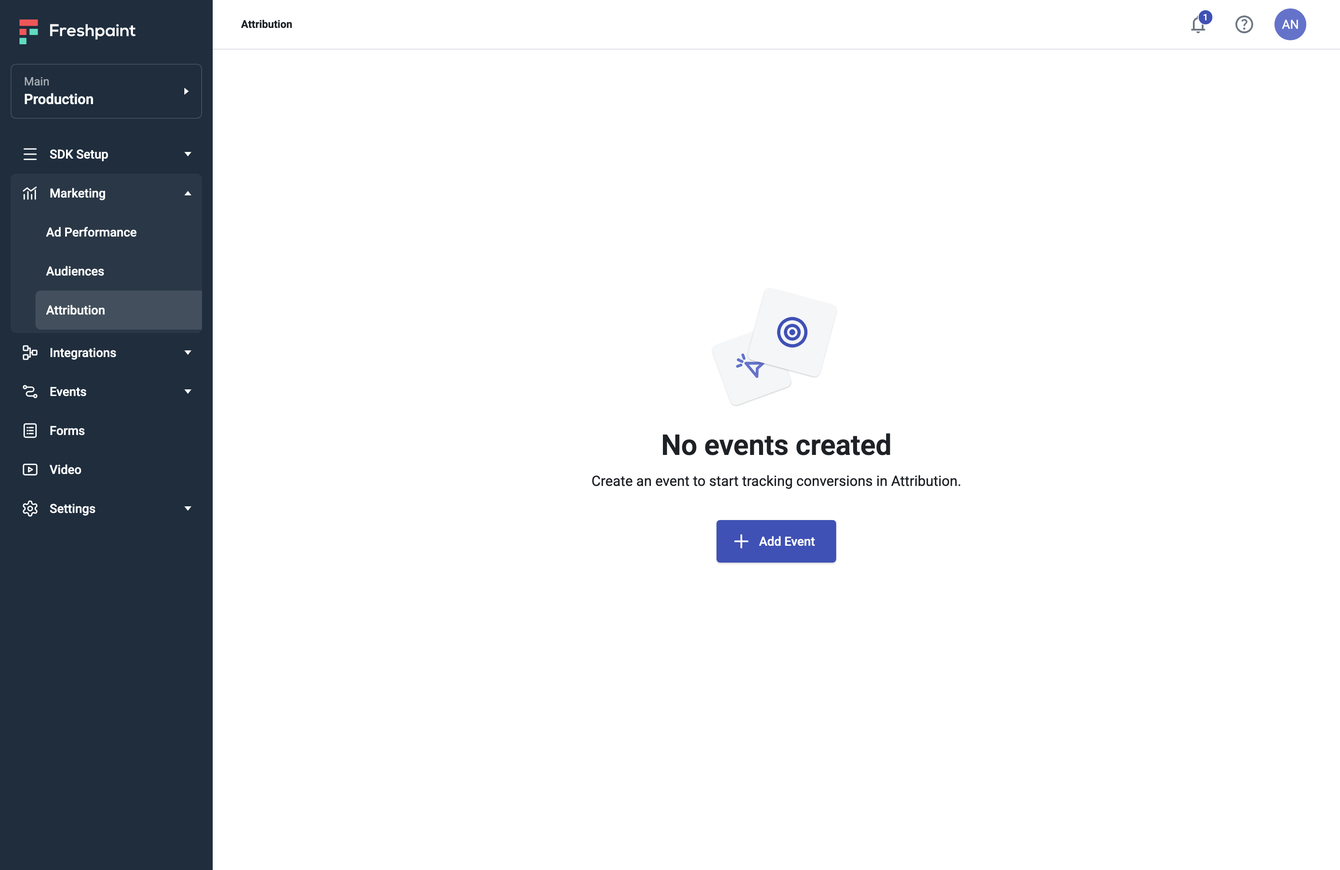
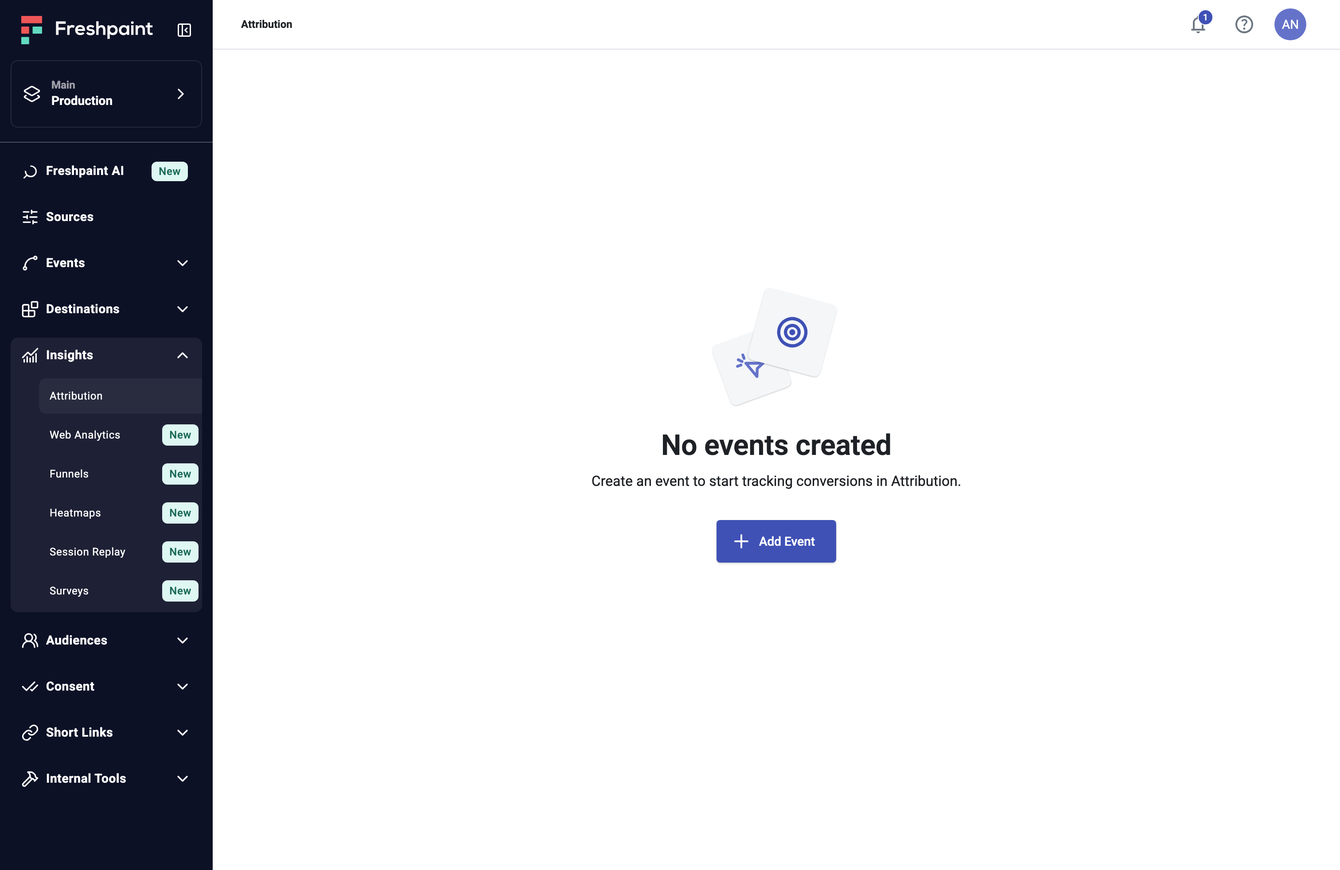
Problem goes straight to Discovery; 3.2 trimmed; board friction points as handwritten notes; No events uses the walkthrough sidebar

Changed region(s): [[0.0, 0.0, 0.1865, 1.0]]

diff --git a/scripts/empty-states/no-events.html b/scripts/empty-states/no-events.html
@@ -1,7 +1,7 @@
 <!doctype html>
 <!--
   "No events" empty state, recreated (Kyle had no screen grab of it). Modeled on the product's
-  "No integrations connected" screen from the same era: same shell, same layout, an events illustration,
+  "No integrations connected" screen (same layout), in the walkthrough's shell (its sidebar, exactly, per Kyle), an events illustration,
   "No events created", and "+ Add Event". Mock content only.
   Render to public/assets/hunch/no-events.png with: sh scripts/empty-states/render.sh
 -->
@@ -14,22 +14,33 @@
   html, body { width: 1512px; height: 982px; overflow: hidden; font-family: Roboto, sans-serif; color: #1e2125; background: #fff; }
   .app { display: flex; height: 982px; }
 
-  /* sidebar */
-  .side { width: 240px; flex: none; background: #1f2d3d; color: #fff; padding: 20px 12px; }
-  .logo { display: block; height: 28px; width: auto; margin: 2px 0 22px 10px; }
-  .ws { border: 1px solid rgba(255,255,255,0.15); border-radius: 6px; padding: 10px 14px; display: flex; align-items: center; margin-bottom: 18px; }
-  .ws span { flex: 1; display: flex; flex-direction: column; }
-  .ws small { font-size: 13px; color: rgba(255,255,255,0.6); line-height: 18px; }
-  .ws b { font-size: 16px; font-weight: 600; line-height: 22px; }
-  .row { height: 44px; display: flex; align-items: center; gap: 12px; padding: 0 12px; font-size: 14px; font-weight: 500; }
-  .row svg { width: 20px; height: 20px; flex: none; }
-  .row .label { flex: 1; }
-  .caret { width: 0; height: 0; border-left: 4px solid transparent; border-right: 4px solid transparent; border-top: 5px solid #fff; }
-  .caret.up { border-top: 0; border-bottom: 5px solid #fff; }
-  .caret.right { border-top: 4px solid transparent; border-bottom: 4px solid transparent; border-left: 5px solid #fff; border-right: 0; }
-  .group { background: rgba(255,255,255,0.05); border-radius: 6px; padding-bottom: 4px; }
-  .sub { height: 44px; display: flex; align-items: center; padding-left: 40px; font-size: 14px; font-weight: 500; margin-left: 0; }
-  .sub.on { background: rgba(255,255,255,0.12); border-radius: 6px 0 0 6px; margin-left: 28px; padding-left: 12px; }
+  /* sidebar: an exact port of the walkthrough's Sidebar (src/visuals/onboarding-screens.tsx), same Figma assets */
+  .side { width: 240px; flex: none; background: #0d1126; color: #fff; display: flex; flex-direction: column; }
+  .brand { height: 68px; display: flex; align-items: center; justify-content: space-between; padding: 0 16px 0 24px; }
+  .brand .logo { width: 148.7px; height: 32px; display: block; }
+  .icon-box { width: 32px; height: 32px; display: grid; place-items: center; }
+  .env-wrap { padding: 0 12px 16px; }
+  .env { display: flex; align-items: center; gap: 12px; border: 1px solid rgba(255,255,255,0.1); border-radius: 8px; padding: 9px 13px; }
+  .env .txt { flex: 1; height: 56px; display: flex; flex-direction: column; justify-content: center; }
+  .env small { font-size: 12px; font-weight: 700; line-height: 16px; color: rgba(255,255,255,0.6); }
+  .env b { font-size: 14px; font-weight: 700; line-height: 20px; }
+  .rot { transform: rotate(-90deg); }
+  .divider { height: 1px; background: #23303e; border-bottom: 1px solid rgba(255,255,255,0.15); }
+  .nav { padding: 6px 6px 4px; }
+  .cell { padding: 6px; }
+  .navrow { height: 40px; width: 216px; display: flex; align-items: center; border-radius: 8px; padding: 0 12px; font-size: 14px; font-weight: 700; line-height: 20px; letter-spacing: 0.35px; }
+  .navrow .ic { padding-right: 8px; display: flex; }
+  .navrow .label { flex: 1; }
+  .badge-new { border-radius: 6px; background: #def7f2; color: #186756; padding: 4px 8px; font-size: 12px; font-weight: 500; line-height: 16px; letter-spacing: 0.35px; }
+  .grp-head { border-radius: 8px 8px 0 0; background: rgba(255,255,255,0.07); }
+  .grp-list { border-radius: 0 0 8px 8px; background: rgba(255,255,255,0.07); padding: 6px 0 0 16px; }
+  .subcell { height: 44px; padding: 0 0 4px 16px; }
+  .sub { height: 40px; width: 184px; display: flex; align-items: center; justify-content: space-between; border-radius: 8px 0 0 8px; padding: 0 4px 0 12px; font-size: 12px; line-height: 20px; letter-spacing: 0.35px; }
+  .sub.on { background: rgba(73,83,96,0.23); }
+  .ai { position: relative; width: 20px; height: 20px; overflow: hidden; display: block; }
+  .ai .a { position: absolute; top: 0; left: 5.56%; width: 88.88%; height: 100%; }
+  .ai .m { position: absolute; inset: 16.02% 35.97% 37.41% 17.46%; -webkit-mask: url(../../public/assets/showing-team/nav-ai-mask.svg) -0.621px -1.242px / 10.556px 10.556px no-repeat; mask: url(../../public/assets/showing-team/nav-ai-mask.svg) -0.621px -1.242px / 10.556px 10.556px no-repeat; }
+  .ai .m img { position: absolute; inset: 0; width: 100%; height: 100%; }
 
   /* main */
   .main { flex: 1; display: flex; flex-direction: column; }
@@ -56,29 +67,28 @@
 <body>
 <div class="app">
   <aside class="side">
-    <img class="logo" src="logo.svg" alt="Freshpaint">
-    <div class="ws"><span><small>Main</small><b>Production</b></span><i class="caret right"></i></div>
-
-    <div class="row"><svg viewBox="0 0 24 24" fill="none" stroke="#fff" stroke-width="1.8" stroke-linecap="round" stroke-linejoin="round"><path d="M4 5h16M4 12h16M4 19h16M7 5v0M7 19v0"/><rect x="3" y="3" width="18" height="18" rx="3" opacity="0"/></svg><span class="label">SDK Setup</span><i class="caret"></i></div>
-    <div class="group">
-      <div class="row"><svg viewBox="0 0 24 24" fill="none" stroke="#fff" stroke-width="1.8" stroke-linecap="round" stroke-linejoin="round"><path d="M4 20V14M9 20V10M14 20v-6M19 20V8M3 9l5-4 5 4 7-5"/></svg><span class="label">Marketing</span><i class="caret up"></i></div>
-      <div class="sub">Ad Performance</div>
-      <div class="sub">Audiences</div>
-      <div class="sub on">Attribution</div>
+    <div class="brand"><img class="logo" src="../../public/assets/showing-team/logo.svg" alt="Freshpaint"><span class="icon-box"><img src="../../public/assets/showing-team/nav-collapse.svg" width="18" height="18" alt=""></span></div>
+    <div class="env-wrap"><div class="env"><img src="../../public/assets/showing-team/nav-env.svg" width="20" height="20" alt=""><span class="txt"><small>Main</small><b>Production</b></span><img class="rot" src="../../public/assets/showing-team/chevron-env.svg" width="20" height="20" alt=""></div></div>
+    <div class="divider"></div>
+    <div class="nav">
+      <div class="cell"><div class="navrow"><span class="ic"><span class="ai"><img class="a" src="../../public/assets/showing-team/nav-ai.svg" alt=""><span class="m"><img src="../../public/assets/showing-team/nav-ai-spark.svg" alt=""></span></span></span><span class="label">Freshpaint AI</span><span style="padding-right:4px"><span class="badge-new">New</span></span></div></div>
+      <div class="cell"><div class="navrow"><span class="ic"><img src="../../public/assets/showing-team/nav-sources.svg" width="20" height="20" alt=""></span><span class="label">Sources</span></div></div>
+      <div class="cell"><div class="navrow"><span class="ic"><img src="../../public/assets/showing-team/nav-events.svg" width="20" height="20" alt=""></span><span class="label">Events</span><img src="../../public/assets/showing-team/chevron-down.svg" width="20" height="20" alt=""></div></div>
+      <div class="cell"><div class="navrow"><span class="ic"><img src="../../public/assets/showing-team/nav-destinations.svg" width="20" height="20" alt=""></span><span class="label">Destinations</span><img src="../../public/assets/showing-team/chevron-down.svg" width="20" height="20" alt=""></div></div>
+      <div class="cell"><div class="grp-head"><div class="navrow"><span class="ic"><img src="../../public/assets/showing-team/nav-insights.svg" width="20" height="20" alt=""></span><span class="label">Insights</span><img src="../../public/assets/showing-team/chevron-up.svg" width="20" height="20" alt=""></div></div><div class="grp-list"><div class="subcell"><div class="sub on">Attribution</div></div><div class="subcell"><div class="sub">Web Analytics<span class="badge-new">New</span></div></div><div class="subcell"><div class="sub">Funnels<span class="badge-new">New</span></div></div><div class="subcell"><div class="sub">Heatmaps<span class="badge-new">New</span></div></div><div class="subcell"><div class="sub">Session Replay<span class="badge-new">New</span></div></div><div class="subcell"><div class="sub">Surveys<span class="badge-new">New</span></div></div></div></div>
+      <div class="cell"><div class="navrow"><span class="ic"><img src="../../public/assets/showing-team/nav-audiences.svg" width="20" height="20" alt=""></span><span class="label">Audiences</span><img src="../../public/assets/showing-team/chevron-down.svg" width="20" height="20" alt=""></div></div>
+      <div class="cell"><div class="navrow"><span class="ic"><img src="../../public/assets/showing-team/nav-consent.svg" width="20" height="20" alt=""></span><span class="label">Consent</span><img src="../../public/assets/showing-team/chevron-down.svg" width="20" height="20" alt=""></div></div>
+      <div class="cell"><div class="navrow"><span class="ic"><img src="../../public/assets/showing-team/nav-short-links.svg" width="20" height="20" alt=""></span><span class="label">Short Links</span><img src="../../public/assets/showing-team/chevron-down.svg" width="20" height="20" alt=""></div></div>
+      <div class="cell"><div class="navrow"><span class="ic"><img src="../../public/assets/showing-team/nav-internal-tools.svg" width="20" height="20" alt=""></span><span class="label">Internal Tools</span><img src="../../public/assets/showing-team/chevron-down.svg" width="20" height="20" alt=""></div></div>
     </div>
-    <div class="row"><svg viewBox="0 0 24 24" fill="none" stroke="#fff" stroke-width="1.8" stroke-linecap="round" stroke-linejoin="round"><rect x="3" y="3" width="6" height="6" rx="1"/><rect x="3" y="15" width="6" height="6" rx="1"/><rect x="15" y="9" width="6" height="6" rx="1"/><path d="M9 6h3v12H9M12 12h3"/></svg><span class="label">Integrations</span><i class="caret"></i></div>
-    <div class="row"><svg viewBox="0 0 24 24" fill="none" stroke="#fff" stroke-width="1.8" stroke-linecap="round" stroke-linejoin="round"><circle cx="5" cy="6" r="2"/><circle cx="19" cy="18" r="2"/><path d="M7 6h7a3 3 0 010 6H10a3 3 0 000 6h7"/></svg><span class="label">Events</span><i class="caret"></i></div>
-    <div class="row"><svg viewBox="0 0 24 24" fill="none" stroke="#fff" stroke-width="1.8" stroke-linecap="round" stroke-linejoin="round"><rect x="4" y="3" width="16" height="18" rx="2"/><path d="M8 8h1M11 8h5M8 12h1M11 12h5M8 16h1M11 16h5"/></svg><span class="label">Forms</span></div>
-    <div class="row"><svg viewBox="0 0 24 24" fill="none" stroke="#fff" stroke-width="1.8" stroke-linecap="round" stroke-linejoin="round"><rect x="3" y="5" width="18" height="14" rx="2"/><path d="M10 9l5 3-5 3z"/></svg><span class="label">Video</span></div>
-    <div class="row"><svg viewBox="0 0 24 24" fill="none" stroke="#fff" stroke-width="1.8" stroke-linecap="round" stroke-linejoin="round"><circle cx="12" cy="12" r="3"/><path d="M12.22 2h-.44a2 2 0 00-2 2v.18a2 2 0 01-1 1.73l-.43.25a2 2 0 01-2 0l-.15-.08a2 2 0 00-2.73.73l-.22.38a2 2 0 00.73 2.73l.15.1a2 2 0 011 1.72v.51a2 2 0 01-1 1.74l-.15.09a2 2 0 00-.73 2.73l.22.38a2 2 0 002.73.73l.15-.08a2 2 0 012 0l.43.25a2 2 0 011 1.73V20a2 2 0 002 2h.44a2 2 0 002-2v-.18a2 2 0 011-1.73l.43-.25a2 2 0 012 0l.15.08a2 2 0 002.73-.73l.22-.39a2 2 0 00-.73-2.73l-.15-.08a2 2 0 01-1-1.74v-.5a2 2 0 011-1.74l.15-.09a2 2 0 00.73-2.73l-.22-.38a2 2 0 00-2.73-.73l-.15.08a2 2 0 01-2 0l-.43-.25a2 2 0 01-1-1.73V4a2 2 0 00-2-2z"/></svg><span class="label">Settings</span><i class="caret"></i></div>
   </aside>
 
   <main class="main">
     <div class="top">
       <span class="crumb">Attribution</span>
       <span class="tools">
-        <span class="tool"><img src="bell.svg" alt=""><span class="badge">1</span></span>
-        <span class="tool"><img src="help.svg" alt=""></span>
+        <span class="tool"><img src="../../public/assets/showing-team/bell.svg" alt=""><span class="badge">1</span></span>
+        <span class="tool"><img src="../../public/assets/showing-team/help.svg" alt=""></span>
         <span class="tool"><span class="avatar">AN</span></span>
       </span>
     </div>

diff --git a/src/visuals/MappingBoard.tsx b/src/visuals/MappingBoard.tsx
@@ -9,8 +9,8 @@ import { SHOTS, ShotView } from './EmptyStateMontage'
 /*
   Beat 6 visual ("Connecting the dots"): the method, not the result. A generic whiteboard (not FigJam's UI).
   The six empty-state screenshots from the montage drop on as anchor points, circles and labels intact;
-  step boxes fill the gaps between them; arrows draw in to connect everything; sticky notes pop up at a
-  few friction points. Real screenshots swapped into SHOTS appear here too. Tune the timing here (seconds).
+  step boxes fill the gaps between them; arrows draw in to connect everything; handwritten magenta notes
+  with arrows call out the friction points (Kyle's markup, as on the montage). Real screenshots swapped into SHOTS appear here too. Tune the timing here (seconds).
 */
 export const TIMING = {
   start: 0.4,
@@ -20,8 +20,8 @@ export const TIMING = {
   arrowsAfter: 0.3, // after the last step box
   arrowGap: 0.14,
   arrowDraw: 0.45,
-  stickiesAfter: 0.3, // after the last arrow
-  stickyGap: 0.3,
+  notesAfter: 0.3, // after the last arrow
+  noteGap: 0.45,
   settle: 0.8,
 }
 
@@ -41,19 +41,20 @@ const FLOW: Item[] = [
   { kind: 'step', label: 'AI settings', x: 28, y: 74 },
   { kind: 'shot', shot: 4, x: 10, y: 74 }, // AI on, no events
 ]
-// friction points: sticky notes near these items (index into FLOW), offset in percent
-const STICKIES = [
-  { at: 1, dx: 0, dy: -17, r: -6 },
-  { at: 6, dx: 0, dy: 15, r: 5 },
-  { at: 8, dx: 1, dy: 15, r: -4 },
+// friction points: a handwritten note above or below a step (index into FLOW), with an arrow to it.
+// Wording derived from the case study, to confirm with Kyle.
+const NOTES: { at: number; text: string; side: 'above' | 'below'; r: number }[] = [
+  { at: 1, text: 'Leaves Attribution to create events', side: 'above', r: -4 },
+  { at: 6, text: 'No way back after connecting', side: 'below', r: 3 },
+  { at: 8, text: 'Leaves Attribution to turn on AI', side: 'below', r: -3 },
 ]
 
 const shots = FLOW.filter((f) => f.kind === 'shot')
 const stepsOnly = FLOW.filter((f) => f.kind === 'step')
 const STEPS_AT = TIMING.start + shots.length * TIMING.shotGap + TIMING.stepsAfter
 const ARROWS_AT = STEPS_AT + stepsOnly.length * TIMING.stepGap + TIMING.arrowsAfter
-const STICKIES_AT = ARROWS_AT + (FLOW.length - 1) * TIMING.arrowGap + TIMING.arrowDraw + TIMING.stickiesAfter
-const TOTAL = STICKIES_AT + STICKIES.length * TIMING.stickyGap + TIMING.settle
+const NOTES_AT = ARROWS_AT + (FLOW.length - 1) * TIMING.arrowGap + TIMING.arrowDraw + TIMING.notesAfter
+const TOTAL = NOTES_AT + NOTES.length * TIMING.noteGap + TIMING.settle
 
 const halfW = (f: Item) => (f.kind === 'shot' ? SHOT_W : STEP_W) / 2
 const halfH = (f: Item) => (f.kind === 'shot' ? (SHOT_W * 10) / 16 : 5) / 2 / 0.625 // percent of board height
@@ -145,21 +146,31 @@ export function MappingBoard(props: VisualProps) {
           )
         })}
 
-        {/* friction points */}
-        {STICKIES.map((s, i) => {
-          const f = FLOW[s.at]
+        {/* friction points: Kyle's handwritten notes, each with an arrow to its step */}
+        {NOTES.map((n, i) => {
+          const f = FLOW[n.at]
+          const edge = f.y + (n.side === 'above' ? -halfH(f) - 1 : halfH(f) + 1) // percent of board height
           return (
-            <Placed key={`s${i}`} x={f.x + s.dx} y={f.y + s.dy} w={7.5} r={s.r} z={30}>
-              <motion.div
-                className="flex aspect-square flex-col justify-center gap-[0.7cqw] rounded-[0.3cqw] p-[0.9cqw] shadow-[0_6px_16px_rgba(20,21,28,0.18)]"
-                style={{ background: 'color-mix(in srgb, var(--color-annotation) 22%, var(--color-surface))' }}
-                {...pop(STICKIES_AT + i * TIMING.stickyGap, 0.6)}
-              >
-                {[90, 70, 80].map((w, k) => (
-                  <span key={k} className="block h-[0.45cqw] rounded-full" style={{ width: `${w}%`, background: 'color-mix(in srgb, var(--color-annotation) 55%, var(--color-surface))' }} />
-                ))}
+            <div
+              key={`n${i}`}
+              className="absolute z-30 flex w-[17cqw] flex-col items-center"
+              style={{ left: `${f.x}%`, top: `${edge}%`, transform: `translate(-50%, ${n.side === 'above' ? '-100%' : '0'})` }}
+            >
+              <motion.div className={`flex items-center ${n.side === 'below' ? 'flex-col-reverse' : 'flex-col'}`} {...pop(NOTES_AT + i * TIMING.noteGap, 0.9)}>
+                <span
+                  className="block text-center font-[family-name:var(--font-hand)] text-[clamp(11px,1.75cqw,30px)] font-bold leading-[1.05] text-annotation"
+                  style={{ transform: `rotate(${n.r}deg)` }}
+                >
+                  {n.text}
+                </span>
+                <svg viewBox="0 0 30 34" className={`h-[3.2cqw] w-[2.8cqw] overflow-visible ${n.side === 'below' ? 'mb-[0.3cqw] rotate-180' : 'mt-[0.3cqw]'}`} aria-hidden="true">
+                  <g fill="none" stroke="var(--color-annotation)" strokeWidth="2.6" strokeLinecap="round" strokeLinejoin="round">
+                    <path d="M14 2 C9 12 9 22 15 31" vectorEffect="non-scaling-stroke" />
+                    <path d="M9 25 L15 31 L20 24" vectorEffect="non-scaling-stroke" />
+                  </g>
+                </svg>
               </motion.div>
-            </Placed>
+            </div>
           )
         })}
       </div>

diff --git a/src/beats/02-problem.tsx b/src/beats/02-problem.tsx
@@ -1,7 +1,6 @@
 import type { Beat } from '../engine/types'
 import { Statement } from '../components/Statement'
 import { SpotlightLine } from '../components/SpotlightLine'
-import { SetupPaths } from '../visuals/SetupPaths'
 
 const beat: Beat = {
   slug: 'problem',
@@ -13,18 +12,14 @@ const beat: Beat = {
       body="Freshpaint's healthcare marketing analytics platform was powerful, but it had no self-serve system in place to help customers reach the value they'd paid for. Setup flows were confusing and offered little to no guidance. Getting set up correctly meant reading dense documentation or booking a call with CS or an account manager."
     />
   ),
-  // lands on the next press: the card pushes back and this takes the screen
+  // lands on the next press: the card pushes back and this takes the screen. Then straight to 01 Discovery
+  // (the three-paths visual was removed, per Kyle; SetupPaths.tsx is kept unregistered)
   cardOverlay: (
     <SpotlightLine>
       <span>Everyone knew it was an issue. </span>
       <span><em>Nobody prioritized fixing it.</em></span>
     </SpotlightLine>
   ),
-  visual: {
-    component: SetupPaths,
-    description:
-      'A simplified product screen with three paths leading away from it, to Documentation, a CS call, and an Account manager. Placeholder shapes stand in for the final illustration.',
-  },
 }
 
 export default beat

diff --git a/src/beats/10-code-told.tsx b/src/beats/10-code-told.tsx
@@ -15,7 +15,7 @@ const beat: Beat = {
       <div className="text-with-aside mt-[clamp(18px,calc(var(--u)*2.6),46px)] gap-y-[0.8em] text-lead text-fg-muted text-pretty">
         <Reveal order={1} className="twa-main">
           <p className="m-0">
-            The drawer was fully self-contained. It had no dependency on the Events page, so surfacing it in Attribution's new setup flow took only a few lines of code, and it could stay in Events for anyone used to creating events there. The investigation also showed that only two fields were required, event name and CSS selector, something the drawer itself never made clear.
+            The drawer was fully self-contained. It had no dependency on the Events page, so surfacing it in Attribution's new setup flow took only a few lines of code, and it could stay in Events for anyone used to creating events there.
           </p>
         </Reveal>
         <Reveal order={2} className="twa-aside">

diff --git a/CLAUDE.md b/CLAUDE.md
@@ -135,6 +135,7 @@ The piece is card and animation heavy, so it must not accumulate DOM or running 
 - 2026-10-25: The dashboard shows the AI recommendations waiting state (Kyle's reference: "We’re generating your first recommendations", with Hide). In the last step the cursor reappears, hides it, then the page scrolls. The collapsed look (a slim "AI recommendations" bar with Show) is ours; Kyle approved it. Its height animates: a deliberate, contained exception to transform-and-opacity-only motion (transforms would misplace content under the stage's scale).
 - 2026-10-25: The walkthrough's top bar comes from Kyle's 2026 Insights file (`g5k55gOxehM9vf96gGNPcJ`, node `1:20945`): 56px, breadcrumb, notifications with a badge, help, avatar (icons downloaded). The breadcrumb reads Attribution instead of Insights, per Kyle. It replaces the onboarding frames' empty 65px header.
 - 2026-10-25: "No events" empty state recreated (Kyle had no screen grab): modeled on the product's "No integrations connected" screen from the same era (older nav: SDK Setup, Marketing, Integrations, Events, Forms, Video, Settings). Source `scripts/empty-states/no-events.html`, rendered to `public/assets/hunch/no-events.png` (2x) by `sh scripts/empty-states/render.sh` (Chrome headless). Title "No events created" and "+ Add Event" are Kyle's; the body line ("Create an event to start tracking conversions in Attribution.") is Claude's, approved by Kyle; the illustration (two tilted tiles with a click and a target) is Claude's. Breadcrumb and active nav read Attribution. The other five empty states are still placeholders.
+- 2026-10-25: Per Kyle: the problem statement no longer has a visual (straight to the Discovery title card); "What the code told me" drops the line about the drawer's required fields; the mapping board's sticky notes became handwritten magenta notes with arrows naming the friction points ("Leaves Attribution to create events", "No way back after connecting", "Leaves Attribution to turn on AI": Claude's wording from the case study, to confirm); the recreated No events screen now uses the walkthrough's sidebar exactly.
 - 2026-10-25: Started 03 Approach. Per the System, "Checking before prototyping" is a frameless statement followed by a 4-press terminal visual (one press per exchange, forward-only auto-advance, longer first search); "What the code told me" is a card holding the v1 status list.
 - 2026-10-25: Built 02 Diagnosis (section card plus three beats). Placed after "How widespread was it?" rather than after "Checking the hunch", since its beats reuse that montage and answer its overlay. Per the System, "Connecting the dots" and "Checking my work" are frameless statements (no artifact); "One problem, not six" is a card (it holds the Required / Optional split). Its headline is display size with "not six" in accent, echoing the title's two-tone device. Diagnosis tagline updated to Kyle's: "Mapping the flow to see the shape of the problem."
 - 2026-10-25: Added the section index (jump anywhere), same mechanism as the Tiled feature pitch deck, per Kyle.
@@ -170,7 +171,7 @@ The piece is card and animation heavy, so it must not accumulate DOM or running 
 | 4a | section-solution | section title sequence | None | Built 2026-10-25, awaiting Kyle's review |
 | 15 | setup-flow | visual only (8 presses), opens 04 Solution | Automated walkthrough of the new setup flow, rebuilt from Kyle's Figma (`src/visuals/OnboardingWalkthrough.tsx`, screens in `onboarding-screens.tsx`, assets in `public/assets/showing-team/`): the cursor glides in, creates an event in the drawer, hits the No Low Funnel error and marks it low funnel, circles "You can always set this up later" and clicks Skip for now, turns on AI, then the waiting room (handwritten note), then the full Attribution page scrolling top to bottom. Hover states under the cursor. Arrow keys only: no auto-advance (`TIMING.autoAdvance`), per Kyle. | Revised 2026-10-25, awaiting Kyle's review |
 | 16 | three-goals | statement (wide, dense), closes 04 Solution | None. Three goals as a numbered list (01 to 03, bold lead-ins). | Built 2026-10-25, awaiting Kyle's review |
-| 2 | problem | statement, card overlay (kicker), visual | Three paths branching away from a simplified product shape to Documentation, CS call, Account manager. Placeholder shapes (`src/visuals/SetupPaths.tsx`, timing in `TIMING`). | Built, awaiting Kyle's review |
+| 2 | problem | statement, card overlay (kicker) | None (the three-paths visual was removed 2026-10-25, per Kyle; `SetupPaths.tsx` kept unregistered). Goes straight to the 01 Discovery title card. | Revised 2026-10-25, awaiting Kyle's review |
 
 ## Up next and open notes
 - Length is a standing concern (Kyle, 2026-10-25): the live talk must run 15 to 20 minutes. Flag beats that run long as the rest gets built, and suggest trims (never rewrite silently). Parked idea, not built: a discreet present mode (one key, e.g. T, global, no visible control) that swaps long beats to Kyle-approved TLDR copy (headline plus one to three short lines, set larger); full copy stays the default for portfolio readers. A speaker-notes window (full copy on a second screen) was also floated. Build only when Kyle asks.
@@ -256,7 +257,7 @@ Checking before prototyping
 - Terminal (caption "Reconstructed from my session."): prompts verbatim, responses condensed, as briefed (4 exchanges).
 
 What the code told me
-- The drawer was fully self-contained. It had no dependency on the Events page, so surfacing it in Attribution's new setup flow took only a few lines of code, and it could stay in Events for anyone used to creating events there. The investigation also showed that only two fields were required, event name and CSS selector, something the drawer itself never made clear.
+- The drawer was fully self-contained. It had no dependency on the Events page, so surfacing it in Attribution's new setup flow took only a few lines of code, and it could stay in Events for anyone used to creating events there.
 - Moving the AI toggle into the flow was also a light lift, so it came along too. Connecting ad sources was heavier and stayed out of v1. Instead, I added an automatic redirect back to Attribution after the OAuth flow finished, so users no longer had to find their way back on their own.
 - Status list: Event Creation, moved into the flow (done). Enable AI, moved into the flow (done). Connect ad sources, auto-redirect back (full move planned later) (partial).
 
